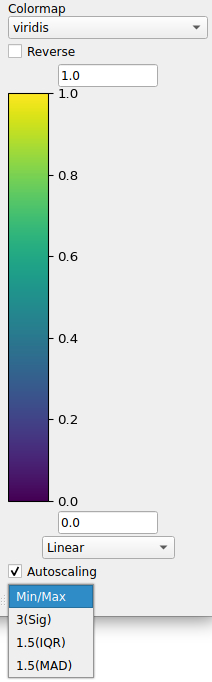
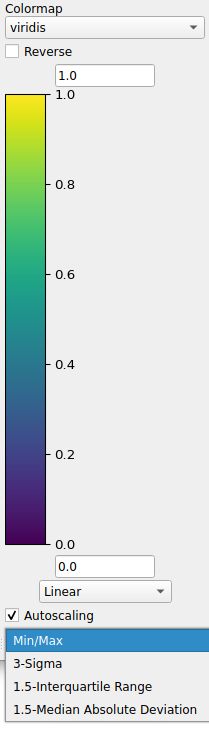
Incorporating suggestions

Changed region(s): [[0.0, 0.0, 1.0, 1.0]]

diff --git a/qt/python/mantidqt/mantidqt/widgets/colorbar/colorbar.py b/qt/python/mantidqt/mantidqt/widgets/colorbar/colorbar.py
@@ -23,7 +23,7 @@ from qtpy.QtCore import Signal
 from qtpy.QtGui import QDoubleValidator
 
 NORM_OPTS = ["Linear", "Log", "SymmetricLog10", "Power"]
-AUTO_SCALE_OPTS = ["Min/Max", "3(Sig)", "1.5(IQR)", "1.5(MAD)"]
+AUTO_SCALE_OPTS = ["Min/Max", "3-Sigma", "1.5-Interquartile Range", "1.5-Median Absolute Deviation"]
 
 
 def register_customized_colormaps():
@@ -345,13 +345,13 @@ class ColorbarWidget(QWidget):
             scale_type = AUTO_SCALE_OPTS[self.autotype.currentIndex()]
             if scale_type == "Min/Max":
                 vmin, vmax = np.min(data[mask]), np.max(data[mask])
-            elif scale_type == "3(Sig)":
+            elif scale_type == "3-Sigma":
                 mean, sigma = np.mean(data[mask]), np.std(data[mask])
                 vmin, vmax = mean - 3 * sigma, mean + 3 * sigma
-            elif scale_type == "1.5(IQR)":
+            elif scale_type == "1.5-Interquartile Range":
                 Q1, Q3 = np.percentile(data[mask], [25, 75])
                 vmin, vmax = Q1 - 1.5 * (Q3 - Q1), Q3 + 1.5 * (Q3 - Q1)
-            elif scale_type == "1.5(MAD)":
+            elif scale_type == "1.5-Median Absolute Deviation":
                 med = np.median(data[mask])
                 mad = np.median(np.abs(data[mask] - med))
                 vmin, vmax = med - 1.5 * mad, med + 1.5 * mad

diff --git a/docs/source/workbench/sliceviewer.rst b/docs/source/workbench/sliceviewer.rst
@@ -214,17 +214,17 @@ Autoscaling options allow the colorbar limits to automatically be updated.
 There are several options to help "quickly" re-scale the limits.
 Some of the options are based on several statistical methods for determining outliers.
 
-+----------+-----------------+-----------------+
-| Option   | Lower-Limit     | Upper-Limit     |
-+==========+=================+=================+
-| Min/Max  | min             | max             |
-+----------+-----------------+-----------------+
-| 3(Sig)   | ave - 3 x std   | mean + 3 x std  |
-+----------+-----------------+-----------------+
-| 1.5(IQR) | Q1 - 1.5 x IQR  | Q3 + 1.5 x IQR  |
-+----------+-----------------+-----------------+
-| 1.5(MAD) | med - 1.5 x mad | med + 1.5 x mad |
-+----------+-----------------+-----------------+
++-------------------------------+---------------------+---------------------+
+| Option                        | Lower-Limit         | Upper-Limit         |
++===============================+=====================+=====================+
+| Min/Max                       | ``min``             | ``max``             |
++-------------------------------+---------------------+---------------------+
+| 3-Sigma                       | ``ave - 3 x std``   | ``ave + 3 x std``   |
++-------------------------------+---------------------+---------------------+
+| 1.5-Interquartile Range       | ``Q1 - 1.5 x IQR``  | ``Q3 + 1.5 x IQR``  |
++-------------------------------+---------------------+---------------------+
+| 1.5-Median Absolute Deviation | ``med - 1.5 x mad`` | ``med + 1.5 x mad`` |
++-------------------------------+---------------------+---------------------+
 
 .. figure:: ../images/wb-sliceviewer67-colorbar.png
    :class: screenshot

diff --git a/docs/source/release/v6.8.0/Workbench/SliceViewer/New_features/35857.rst b/docs/source/release/v6.8.0/Workbench/SliceViewer/New_features/35857.rst
@@ -1,5 +1,5 @@
 - Autoscaling types are now added to slice viewer to help quickly rescale color limits based on statistical variation in the data
   1. Min/Max -> (minimum, maximum as before)
-  2. 3(Sig) -> mean ± standard deviation
-  3. 1.5(IQR) -> 25th, 75th-quartile ± 1.5 x interquartile range
-  4. 1.5(MAD) -> median ± 1.5 x median absolute deviation
+  2. 3-Sigma -> mean ± 3 x standard deviation
+  3. 1.5-Interquartile Range -> 25th, 75th-quartile ± 1.5 x interquartile range
+  4. 1.5-Median Absolute Deviation -> median ± 1.5 x median absolute deviation
